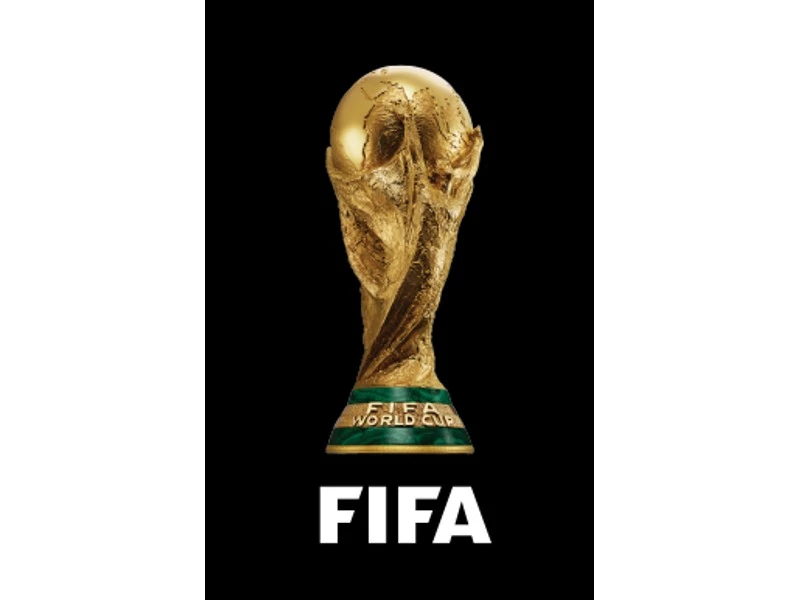
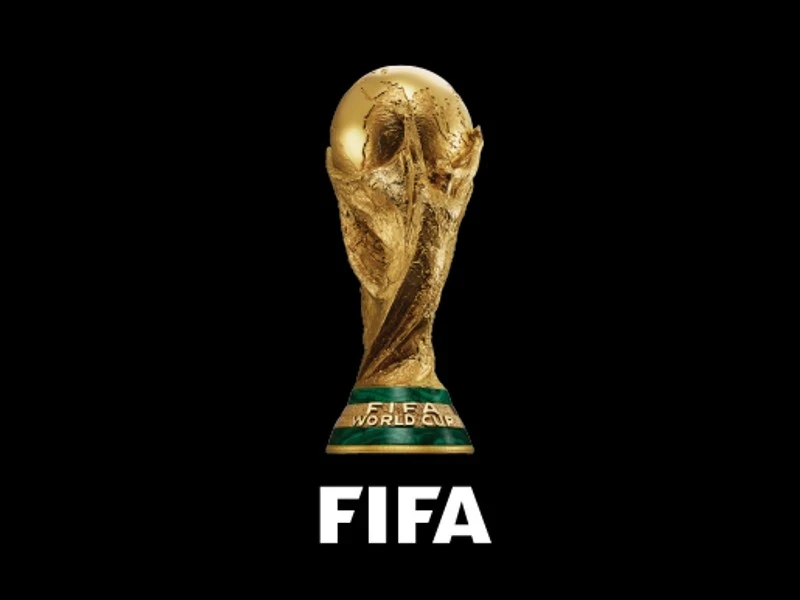
Atelier : les deux notes ouvertes sont traitees
Ulysse et Thesee portaient l'illustration l'un de l'autre (note
n1786210673307). Ce qui suit l'image suit avec elle : les trois fichiers
full/vignette/original, l'entree de provenance, et le cadrage — qui decrit
comment CETTE image est recadree, pas la carte. Ulysse en avait un, Thesee
non : il part avec l'image. Verifie a l'ecran, chacun a desormais la sienne.

Coupe du monde 2026 (note n1786916448611) : le trophee etait deja sur fond
noir mais gardait deux bandes blanches sur les cotes. Meme traitement que les
vingt-deux autres editions, meme script. Relu a cote de Qatar 2022.

build/audit/echanger_images.py est ecrit pour l'occasion : l'echange d'images
entre deux cartes n'avait pas d'outil, et le faire a la main aurait laisse le
cadrage sur la mauvaise carte.

diff --git a/build/audit/echanger_images.py b/build/audit/echanger_images.py
@@ -1,0 +1,77 @@
+#!/usr/bin/env python3
+"""Échange les images de deux cartes (note atelier n1786210673307).
+
+Ulysse et Thésée portaient l'illustration l'un de l'autre. Ce qui suit l'image
+doit suivre avec elle : les trois fichiers (full, vignette, original), le
+cadrage — qui décrit comment CETTE image est recadrée, pas la carte — et
+l'entrée de provenance.
+
+Usage : python echanger_images.py <id carte A> <id carte B> [--essai]
+"""
+import sys, json
+from pathlib import Path
+
+sys.stdout.reconfigure(encoding='utf-8')
+RACINE = Path(__file__).resolve().parent.parent.parent
+
+
+def chemins(cid):
+    col, slug = cid.split('_', 1)
+    return {rep: RACINE / 'images' / rep / col / f'{slug}.webp'
+            for rep in ('full', 'thumbs', 'originaux')}
+
+
+def main():
+    ids = [a for a in sys.argv[1:] if not a.startswith('--')]
+    if len(ids) != 2:
+        sys.exit('deux identifiants de carte attendus')
+    a, b = ids
+    essai = '--essai' in sys.argv
+
+    ca, cb = chemins(a), chemins(b)
+    for rep in ('full', 'thumbs', 'originaux'):
+        fa, fb = ca[rep], cb[rep]
+        if not fa.exists() and not fb.exists():
+            continue
+        print(f'  {rep:<10} {"<->" if fa.exists() and fb.exists() else "->"} '
+              f'{fa.name} / {fb.name}')
+        if essai:
+            continue
+        tmp = fa.with_suffix('.echange')
+        if fa.exists():
+            fa.replace(tmp)
+        if fb.exists():
+            fb.replace(fa)
+        if tmp.exists():
+            tmp.replace(fb)
+
+    fn = RACINE / 'build' / 'notes_atelier.json'
+    notes = json.loads(fn.read_text(encoding='utf-8'))
+    cad = notes.get('cadrages', {})
+    va, vb = cad.get(a), cad.get(b)
+    for cle, val in ((a, vb), (b, va)):
+        if val is None:
+            cad.pop(cle, None)
+        else:
+            cad[cle] = val
+    print(f'  cadrage    {"oui" if va else "aucun"} <-> {"oui" if vb else "aucun"}')
+
+    fs = RACINE / 'build' / 'images_sources.json'
+    src = json.loads(fs.read_text(encoding='utf-8'))
+    sa, sb = src.get(a), src.get(b)
+    for cle, val in ((a, sb), (b, sa)):
+        if val is None:
+            src.pop(cle, None)
+        else:
+            src[cle] = val
+
+    if essai:
+        print('[essai] rien écrit')
+        return
+    fn.write_text(json.dumps(notes, ensure_ascii=False, indent=1), encoding='utf-8')
+    fs.write_text(json.dumps(src, ensure_ascii=False, indent=0), encoding='utf-8')
+    print('échangé')
+
+
+if __name__ == '__main__':
+    main()
